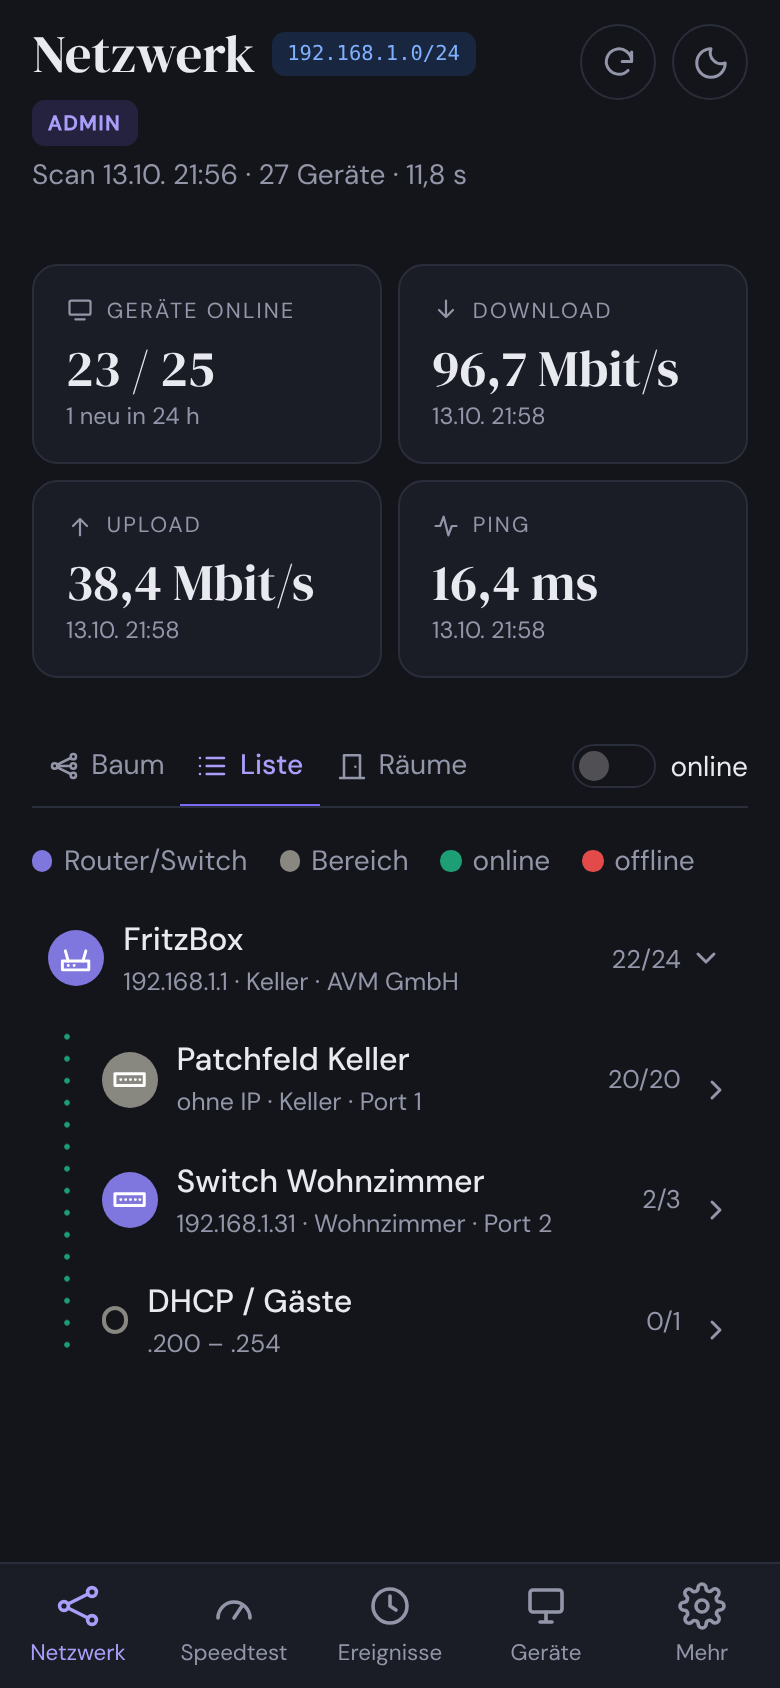
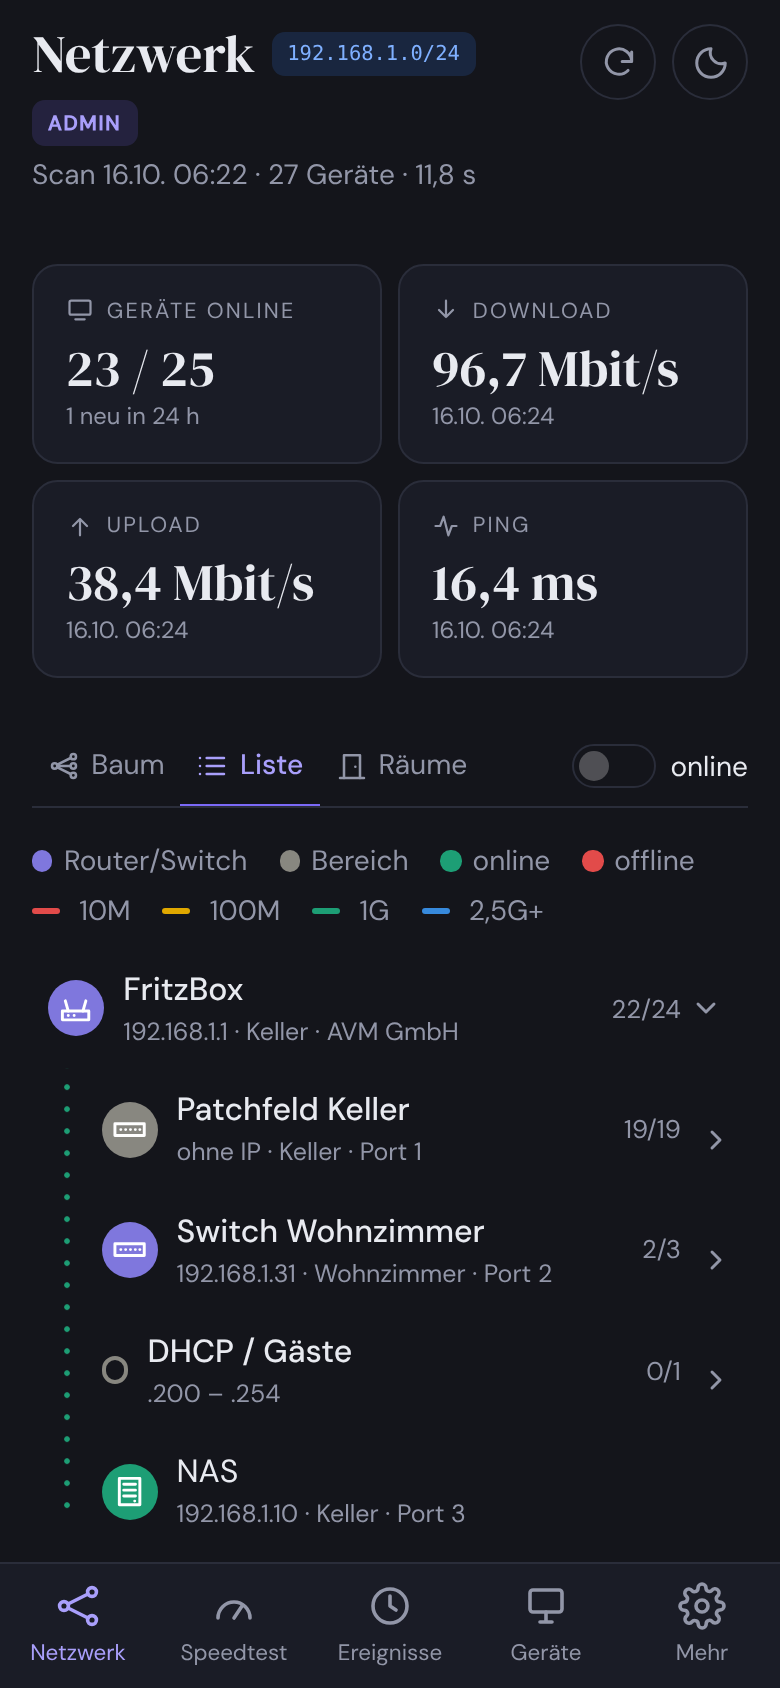
Add files via upload

diff --git a/LIESMICH.md b/LIESMICH.md
@@ -26,9 +26,63 @@ Alles gehört in **einen** Ordner: `netmon/` → `/var/www/html/netmon/`. Sonst 
 sudo bash install.sh --zones sql/zones-beispiel.sql     # Optionen: --subnet, --web, --no-speedtest, --speedtest-every
 ```
 
+### Fernzugriff mit Tailscale
+
+Damit erreichst du von unterwegs netmon **und** alle Geräte im Heimnetz (Router, Switches, Access Points)
+über ihre normale IP – ohne Portfreigabe am Router.
+
+**1. Tailscale-Konto** – einmalig auf <https://login.tailscale.com> anlegen (z. B. mit Google- oder GitHub-Konto).
+Für den Privatgebrauch kostenlos.
+
+**2. Auf dem netmon-Rechner**
+
+```bash
+cd ~/netmon && sudo bash install.sh --with-tailscale
+# anderes Netz als erkannt:  sudo bash install.sh --with-tailscale --subnet 192.168.6.0/24
+```
+
+Beim ersten Mal erscheint ein Link `https://login.tailscale.com/a/…` – im Browser öffnen und bestätigen.
+Am Ende zeigt das Skript die Tailscale-IP des Rechners (100.x.y.z).
+
+**3. Route freigeben (einmalig, kann das Skript nicht)**
+
+<https://login.tailscale.com/admin/machines> → beim Rechner auf **„…“ → Edit route settings** →
+das Heimnetz (z. B. `192.168.5.0/24`) anhaken → **Save**.
+
+**4. Handy / Laptop verbinden**
+
+- Tailscale-App installieren (Android, iPhone, Windows, Mac) und mit **demselben Konto** anmelden.
+- Windows/Mac: im Tailscale-Menü **„Use Tailscale subnets“** anhaken (Android/iPhone: meist automatisch,
+  sonst in den Einstellungen der App).
+- Linux: `sudo tailscale up --accept-routes`
+
+**5. Testen** – am Handy **WLAN aus**, Tailscale **verbunden**:
+
+| Was | Adresse |
+|---|---|
+| netmon | `http://<IP des netmon-Rechners>/netmon/` oder `http://100.x.y.z/netmon/` |
+| Router (FritzBox) | `http://192.168.x.1` bzw. die IP deines Routers |
+| Switch, Access Point | ihre normale IP aus netmon |
+
+**Fehlersuche**
+
+- `tailscale status` auf dem netmon-Rechner – steht er als „online“ drin?
+- Nur die 100.x-Adresse geht, 192.168.x nicht → Schritt 3 (Route nicht freigegeben) oder Schritt 4
+  („Use Tailscale subnets“ aus) prüfen.
+- „ERR_NETWORK_CHANGED“ im Browser: Tailscale verbindet sich gerade neu – kurz warten, neu laden.
+- Firewall auf dem Rechner (`sudo ufw status`): muss Weiterleitung erlauben (bei Mint/Raspberry Pi OS meist aus).
+
+**Mehrere Standorte** (z. B. zu Hause und bei Verwandten, jeweils mit netmon + `--with-tailscale`):
+Die Netze müssen **verschieden** sein, z. B. `192.168.5.x` und `192.168.6.x` – sonst weiß Tailscale nicht,
+welches `192.168.5.10` gemeint ist. Umstellen im Router (FritzBox: *Heimnetz → Netzwerk → Netzwerkeinstellungen →
+IPv4-Einstellungen*), danach in netmon unter Einstellungen das Subnetz anpassen und `install.sh --with-tailscale`
+erneut starten.
+
 ## Aktualisieren
 
-Den Ordner `netmon/` einfach erneut hochladen. Im Paket ist **keine** `config.php` –
+Mit git: `cd ~/netmon && git pull && sudo bash install.sh`.
+
+Von Hand: den Ordner `netmon/` einfach erneut hochladen. Im Paket ist **keine** `config.php` –
 deine Zugangsdaten werden also nie überschrieben. Neue Datenbank-Spalten (z. B. „Raum / Ort“)
 ergänzt netmon beim nächsten Aufruf selbst; wer das lieber von Hand macht: `sql/migrate-v3.sql` bis `sql/migrate-v7.sql`.
 

diff --git a/README.md b/README.md
@@ -34,6 +34,8 @@ cable test, Wi-Fi clients, DSL values).
   | AVM FRITZ!Box | DSL sync, SNR, CRC, internet rate, LAN ports (TR-064) | in use |
 
 - Port front panel, link speed, traffic history (1 h / 24 h / 7 days) and **live view**, cable test, health checks
+- **Link speed in colour** on every cable in tree and room view: 10M red, 100M yellow, 1G green, 2.5G+ blue
+- **Switch LEDs off at night** on a schedule or via `collector/leds.php aus|an` (Netgear GS30x/GS108Ev4/GS316)
 - **Connection suggestions** from switch port descriptions and the FritzBox host list
 - **Analysis package**: one click collects a device's web pages to build a driver for a new model
 - Dark/light theme, mobile friendly, all assets bundled locally (no CDN)
@@ -49,6 +51,7 @@ Optional: Python 3 venv with `tplinkrouterc6u` for TP-Link access points.
 git clone https://github.com/theMagicKnight/netmon.git
 cd netmon
 sudo bash install.sh            # checks what is installed, adds the missing parts
+# optional: --with-tailscale    remote access, home network offered as Tailscale subnet route
 ```
 
 The script checks Apache/PHP/MariaDB/nmap and the PHP extensions, installs only what is missing, copies the app to
